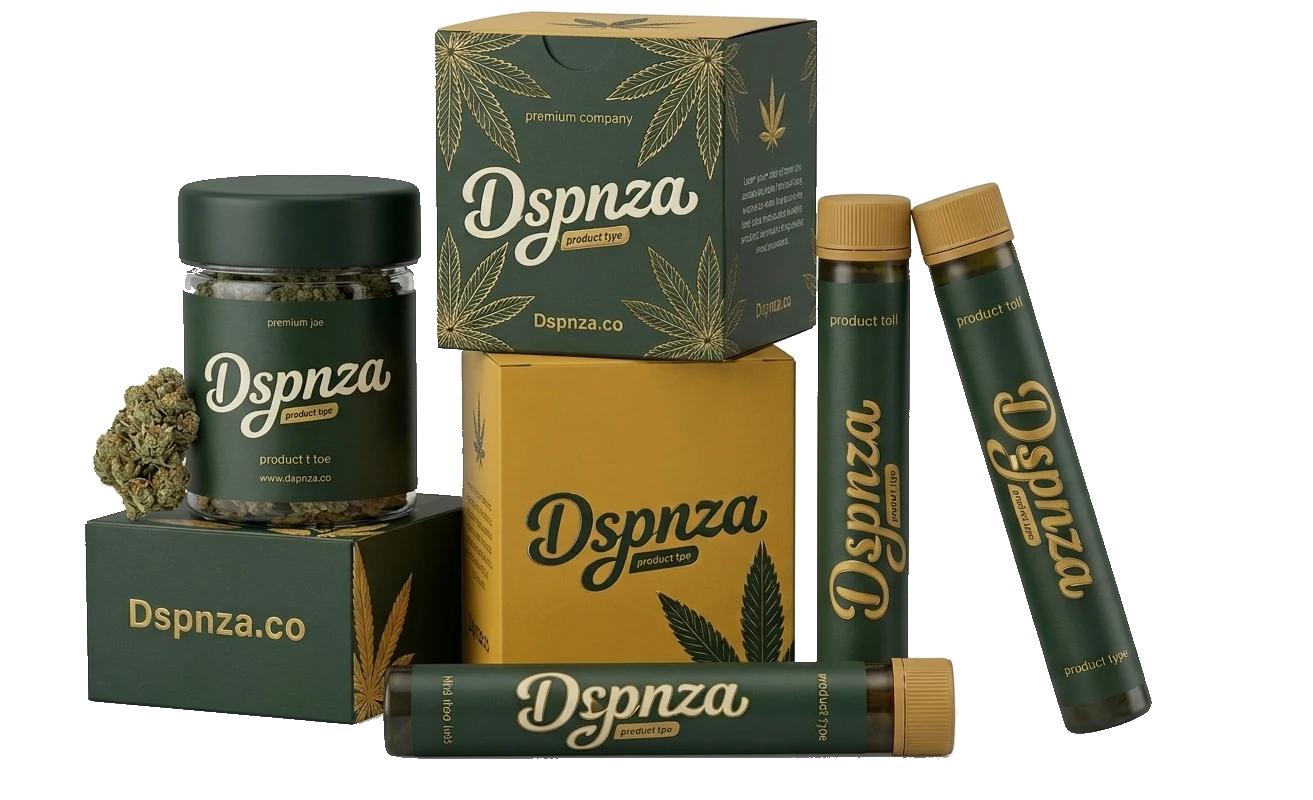
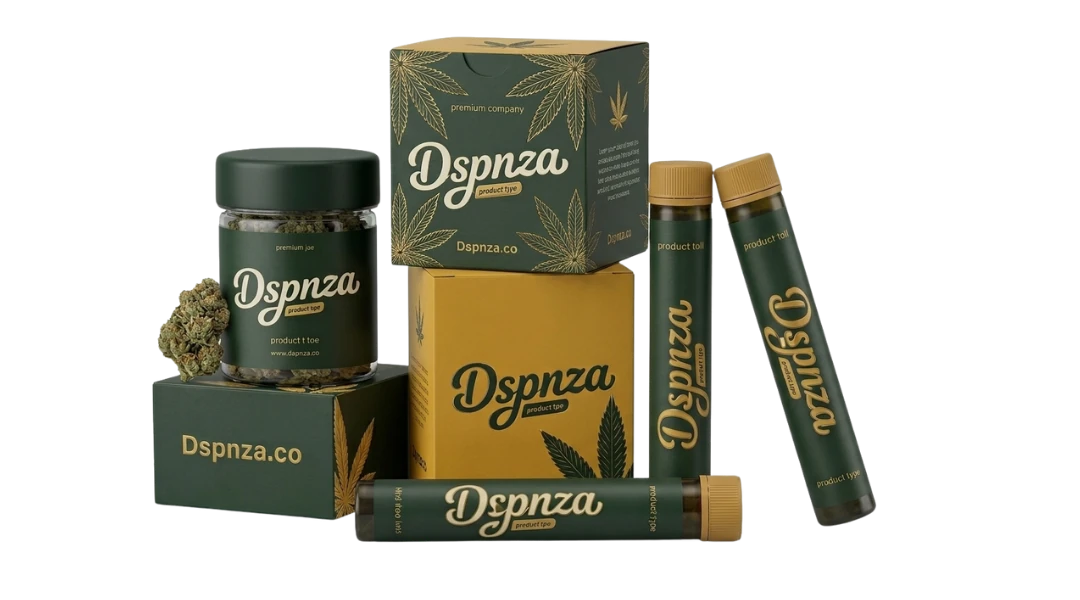
Package Design panel 02: replace the derived cut-out with the owner's own
The previous art was cut out HERE by removing a white plate, and the resulting
alpha channel was purely binary - 0.00% partially-transparent pixels - so every
edge was a hard stair-step. That is the jaggedness the owner reported; it was
baked into the mask, not a rendering artifact.

This file is the owner's own cut-out: 2.67% of its pixels carry partial alpha,
a genuinely feathered edge. webp q90 preserves that figure EXACTLY (2.67% in,
2.67% out, PSNR 43.9 dB) - verified, not assumed. Lossless was 312K for no
visible gain, so q90 was chosen at 67K, which is also 46K lighter than the
115K file it replaces.

Dimensions changed with the art: 1313x800 -> 1080x600. The figure carries
--natural precisely so its aspect is not cover-cropped, so the width/height
attributes had to move too or the reserved box would have been wrong. Verified
in-browser: attribute, natural and rendered ratios all agree at 1.800 at both
1440 and 375, no layout shift, no 404, no console error.

The comment above the figure documented the old white-removal technique
(neutrality-gated fill, the 7124px trapped pocket). That technique no longer
applies to this asset, so the comment was rewritten rather than left to rot.

Note for the owner: at 2x DPR the desktop slot needs ~1518px across and this
source is 1080px, so a larger cut-out would render sharper on retina.

Filename deliberately unchanged - the host sends cache-control: max-age=600,
[…]

diff --git a/dispenza/pages/branding-graphic-design.html b/dispenza/pages/branding-graphic-design.html
@@ -334,18 +334,18 @@
           
               </div>
               <div class="tc-tabs__panel" id="bgdpanel-2" role="tabpanel" aria-labelledby="bgdtab-2">
-                <!-- Owner-supplied product shot (Gemini_Generated_Image_octpaqoctpaqoctp.jpeg), white
-                     background REMOVED rather than hidden. The plate was not flat white - it
-                     graduated to ~190 grey at the right edge - so the fill is gated on NEUTRALITY,
-                     not a brightness cutoff. One pocket of background was TRAPPED between the
-                     carton and the tubes where no edge-connected fill can reach; it was found as a
-                     7124px component of pure white (252,252,250) and removed separately.
-                     --bare because the artwork is transparent; --natural because 1.641 is not
+                <!-- Owner-supplied product shot, REPLACED 2026-08-21. The previous art was a
+                     cut-out DERIVED here by removing a white plate, and its alpha came back
+                     purely binary - 0.00% partially-transparent pixels - so every edge was a
+                     hard stair-step and read as jagged. This file is the owner's own cut-out:
+                     2.67% of its pixels carry partial alpha, i.e. a genuinely feathered edge,
+                     and webp q90 preserves that figure EXACTLY (measured, not assumed).
+                     --bare because the artwork is transparent; --natural because 1.80 is not
                      16/9 and the shared cover crop would trim it. -->
                 <figure class="tc-tabs__fig tc-tabs__fig--bare tc-tabs__fig--natural">
                   <img src="../assets/in-pages/svc-branding-graphic-design-package-shot.webp"
                        alt="Dspnza packaging: glass jar, printed cartons and pre-roll tubes"
-                       width="1313" height="800" loading="lazy" decoding="async">
+                       width="1080" height="600" loading="lazy" decoding="async">
                 </figure>
                 <p class="tc-tabs__pn" aria-hidden="true">02</p>
                 <h2 class="tc-tabs__t" data-reveal>Package Design</h2>
